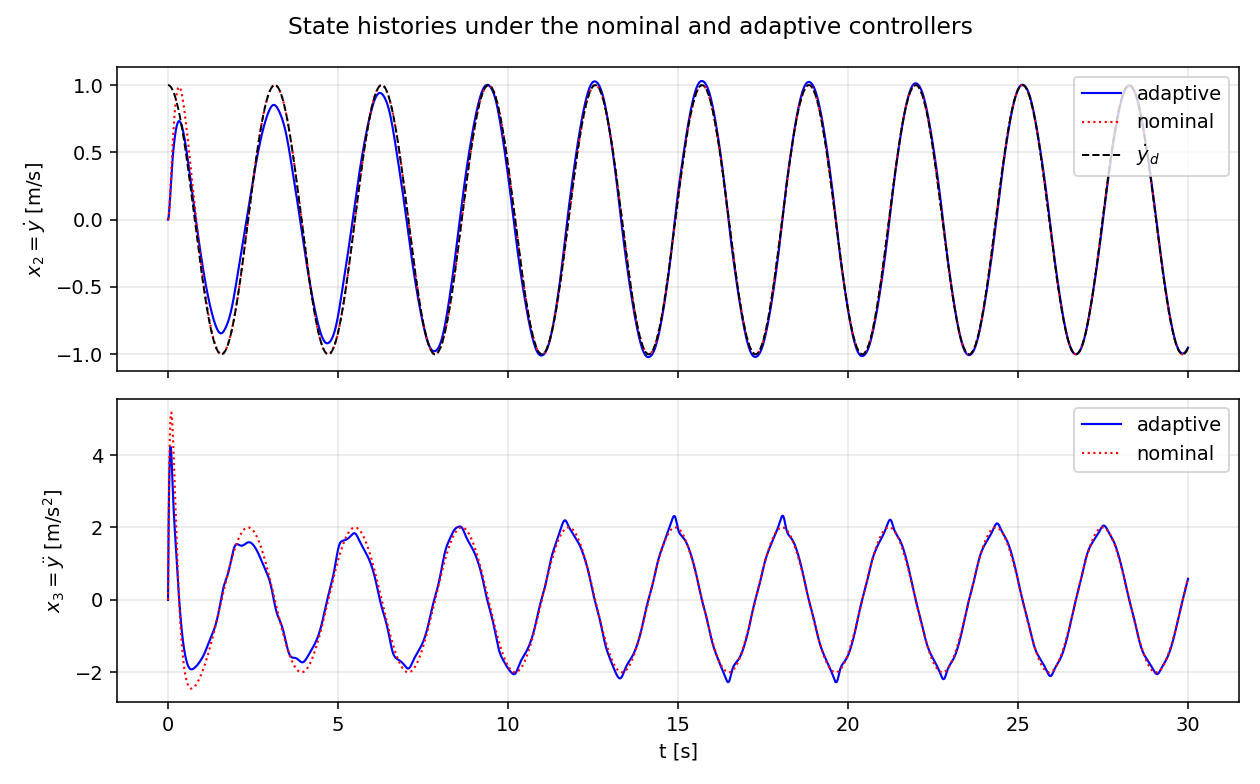
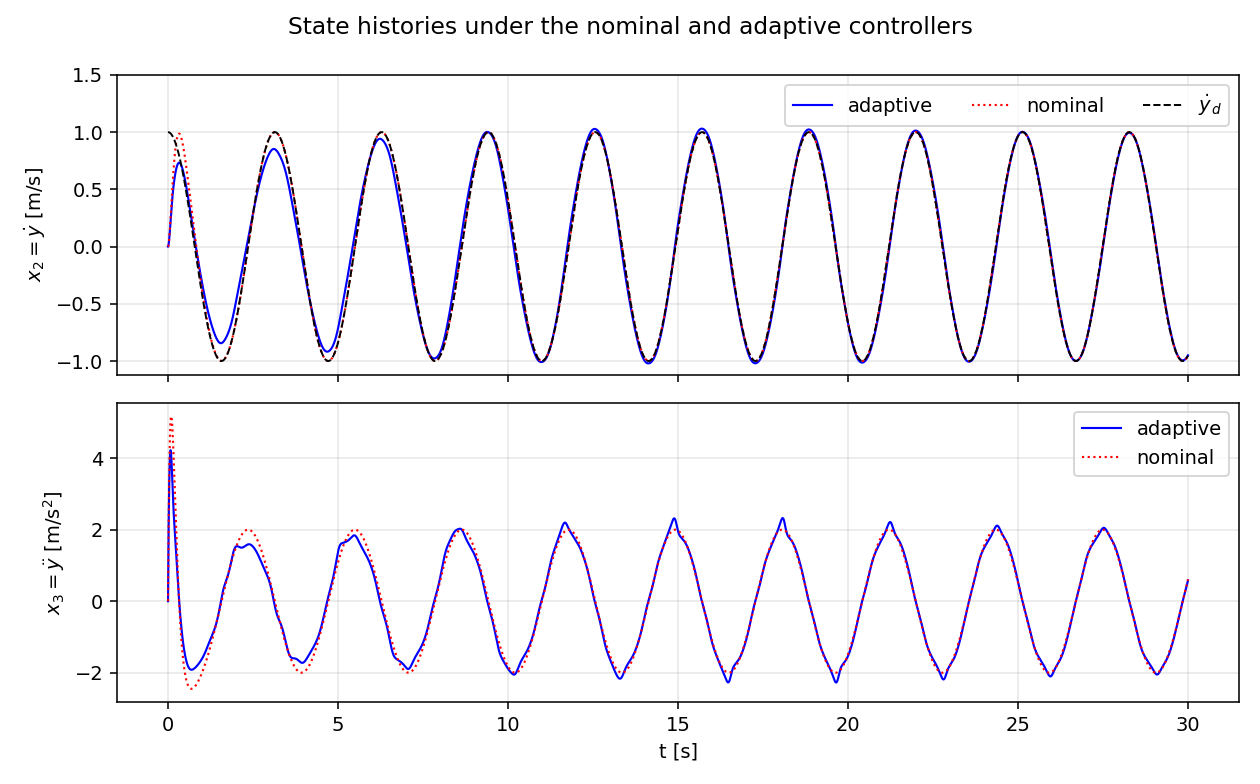
Final polish: explicit A3 stability assumptions in the report; clearer figures
- Report (Sec. 3.2): standing-assumptions paragraph and a projection-
  preserves-the-Lyapunov-inequality note; Sanner & Slotine 1992 reference.
- convergence.png: dashed J_T(u0) baselines in the cost panel; discrete_rms.png:
  log time axis and a full legend; states.png: legend no longer covers the data.
- adp_offpolicy.py: raw docstring (no SyntaxWarning on run).

diff --git a/Py_Code/rbf_discrete.py b/Py_Code/rbf_discrete.py
@@ -24,6 +24,8 @@ import numpy as np
 import matplotlib
 matplotlib.use("Agg")
 import matplotlib.pyplot as plt
+from matplotlib.lines import Line2D
+from matplotlib.ticker import ScalarFormatter
 
 import plant as P
 import config as C
@@ -111,11 +113,17 @@ if __name__ == "__main__":
         bad = (not np.isfinite(r)) or r > 0.05          # degraded / diverged
         ax.semilogy(1000 / fs, r if np.isfinite(r) else 1.0,
                     "rx" if bad else "bo", ms=9, mew=2)
-    ax.axhline(ss_rms(dict(t=dc["t"], e=dc["e"], diverged=False)), color="g", ls="--",
-               label="continuous ss-RMS")
-    ax.set_title("Discrete emulation: steady RMS tracking error vs sample period\n"
-                 "(blue = matches the continuous design, red x = degrades/diverges)")
+    ax.axhline(ss_rms(dict(t=dc["t"], e=dc["e"], diverged=False)), color="g", ls="--")
+    ax.set_xscale("log")
+    ax.xaxis.set_major_formatter(ScalarFormatter())
+    ax.set_title("Discrete emulation: steady RMS tracking error vs sample period")
     ax.set_xlabel(r"$T_s$ [ms]"); ax.set_ylabel("ss-RMS |e| [m]")
-    ax.legend(); ax.grid(alpha=.3, which="both")
+    handles = [Line2D([], [], color="b", marker="o", ls="", ms=9, mew=2,
+                      label="matches the continuous design"),
+               Line2D([], [], color="r", marker="x", ls="", ms=9, mew=2,
+                      label="degrades/diverges"),
+               Line2D([], [], color="g", ls="--", label="continuous ss-RMS")]
+    ax.legend(handles=handles)
+    ax.grid(alpha=.3, which="both")
     fig.tight_layout(); fig.savefig("images/part2/discrete_rms.png", dpi=140); plt.close()
     print("saved discrete figures -> images/part2/")

diff --git a/Py_Code/adp_offpolicy.py b/Py_Code/adp_offpolicy.py
@@ -1,4 +1,4 @@
-"""
+r"""
 Branch B -- nonlinear OFF-POLICY adaptive dynamic programming (report Section 4,
 grading B1-B8).
 
@@ -228,8 +228,11 @@ if __name__ == "__main__":
     ax[2].set_xlabel("iteration"); ax[2].set_ylabel("$w_i$"); ax[2].grid(alpha=.3)
     ax[3].plot(it, Jit[0], "o-", color="tab:blue", lw=1.4, label="IC1")
     ax[3].plot(it, Jit[3], "s-", color="tab:red", lw=1.4, label="IC4")
+    ax[3].axhline(J0[0], ls="--", color="tab:blue", alpha=.5, label=r"IC1: $J_T(u_0)$")
+    ax[3].axhline(J0[3], ls="--", color="tab:red", alpha=.5, label=r"IC4: $J_T(u_0)$")
     ax[3].set_title("Cost $J_T$ of the intermediate policies")
-    ax[3].set_xlabel("iteration"); ax[3].set_ylabel("$J_T$"); ax[3].legend(); ax[3].grid(alpha=.3)
+    ax[3].set_xlabel("iteration"); ax[3].set_ylabel("$J_T$")
+    ax[3].legend(fontsize=9); ax[3].grid(alpha=.3)
     fig.tight_layout(); fig.savefig(f"{OUT}/convergence.png", dpi=140); plt.close()
     print("J_T per iteration (IC1):", np.round(Jit[0], 2))
 

diff --git a/Py_Code/rbf_adaptive.py b/Py_Code/rbf_adaptive.py
@@ -167,7 +167,8 @@ def make_figures(da, dn, outdir="images/part2"):
     ax[0].plot(da["t"], da["x"][1], "b-", lw=1.1, label="adaptive")
     ax[0].plot(dn["t"], dn["x"][1], "r:", lw=1.1, label="nominal")
     ax[0].plot(da["t"], ydd, "k--", lw=1.0, label=r"$\dot y_d$")
-    ax[0].set_ylabel(r"$x_2=\dot y$ [m/s]"); ax[0].legend(loc="upper right"); ax[0].grid(alpha=.3)
+    ax[0].set_ylim(-1.12, 1.5)                     # headroom so the legend clears the data
+    ax[0].set_ylabel(r"$x_2=\dot y$ [m/s]"); ax[0].legend(loc="upper right", ncol=3); ax[0].grid(alpha=.3)
     ax[1].plot(da["t"], da["x"][2], "b-", lw=1.1, label="adaptive")
     ax[1].plot(dn["t"], dn["x"][2], "r:", lw=1.1, label="nominal")
     ax[1].set_ylabel(r"$x_3=\ddot y$ [m/s$^2$]"); ax[1].set_xlabel("t [s]")